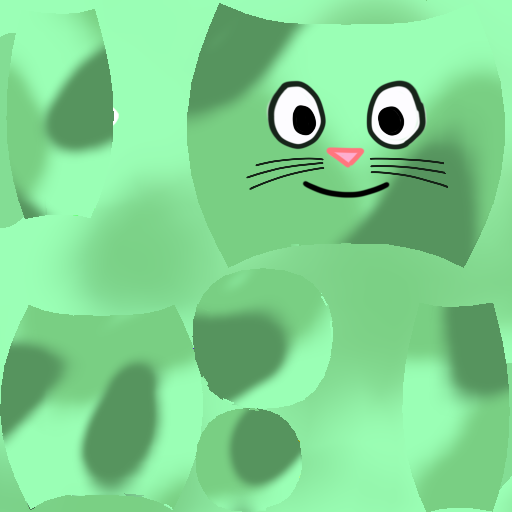
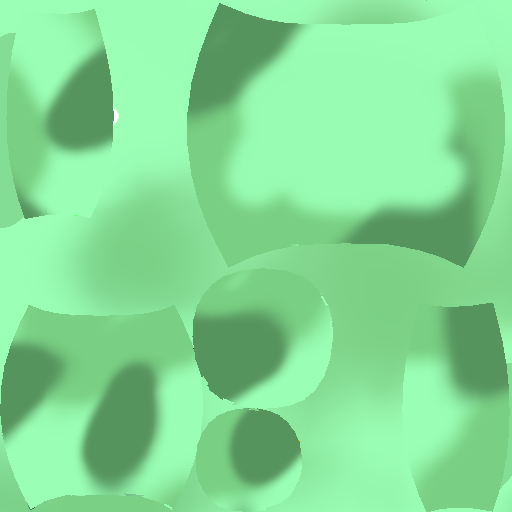
Vid 13

Changed region(s): [[0.4375, 0.125, 0.9375, 0.4375]]

diff --git a/src/naftoreiclag/villagefive/KatCompleteEntity.java b/src/naftoreiclag/villagefive/KatCompleteEntity.java
@@ -42,6 +42,7 @@ public class KatCompleteEntity extends Entity
     Node footR;
     Node handL;
     Node handR;
+    Node mask;
     AnimControl bodyAnimControl;
     AnimChannel bodyAnimChannel;
     AnimControl tailAnimControl;
@@ -86,6 +87,22 @@ public class KatCompleteEntity extends Entity
         handR = world.loadNode("Models/katty/KattyHand.mesh.j3o");
         skele.getAttachmentsNode("Hand.R").attachChild(handR);
         
+        
+        eyeTex = world.assetManager.loadTexture("Textures/debugFace.png");
+        mask = world.loadNode("Models/katty/Face.mesh.j3o");
+        //Geometry geo = (Geometry) mask.getChild("Katty");
+        Material matVC = new Material(world.assetManager, "Common/MatDefs/Misc/Unshaded.j3md");
+        matVC.setTexture("ColorMap", eyeTex);
+        matVC.getAdditionalRenderState().setBlendMode(BlendMode.Alpha);
+        mask.setQueueBucket(Bucket.Transparent);
+        mask.setMaterial(matVC);
+        mask.setShadowMode(RenderQueue.ShadowMode.Receive);
+        //mask.setLocalScale(0.3f);
+        
+        
+        head.attachChild(mask);
+        
+        /*
         eyeTex = world.assetManager.loadTexture("Textures/eye.png");
         
         face = head.getControl(SkeletonControl.class);
@@ -93,8 +110,7 @@ public class KatCompleteEntity extends Entity
         face.getAttachmentsNode("Eye.L").attachChild(eyeL);
         eyeR = makeEye(true);//world.loadNode("Models/katty/KattyFoot.mesh.j3o");
         face.getAttachmentsNode("Eye.R").attachChild(eyeR);
-        
-        
+        */
     }
 
     @Override
